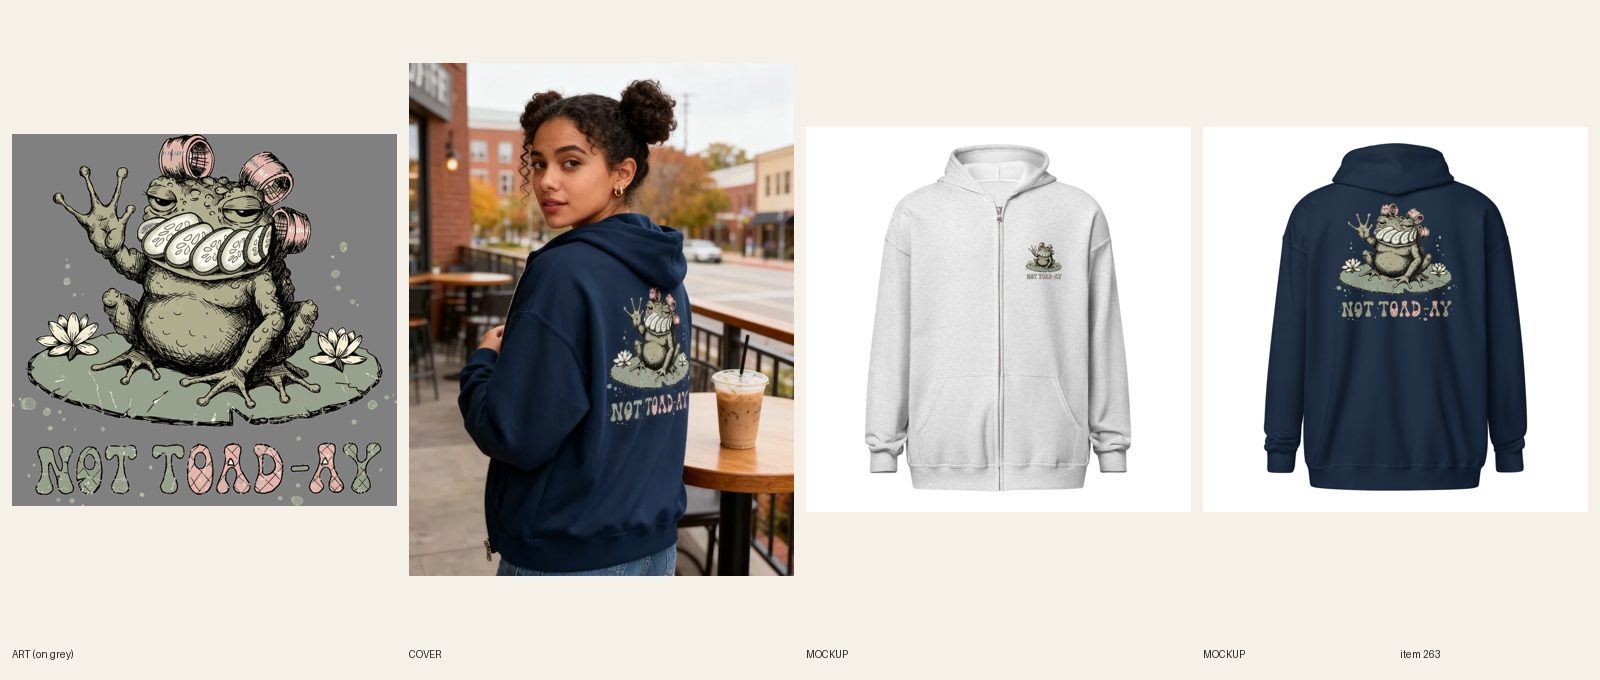
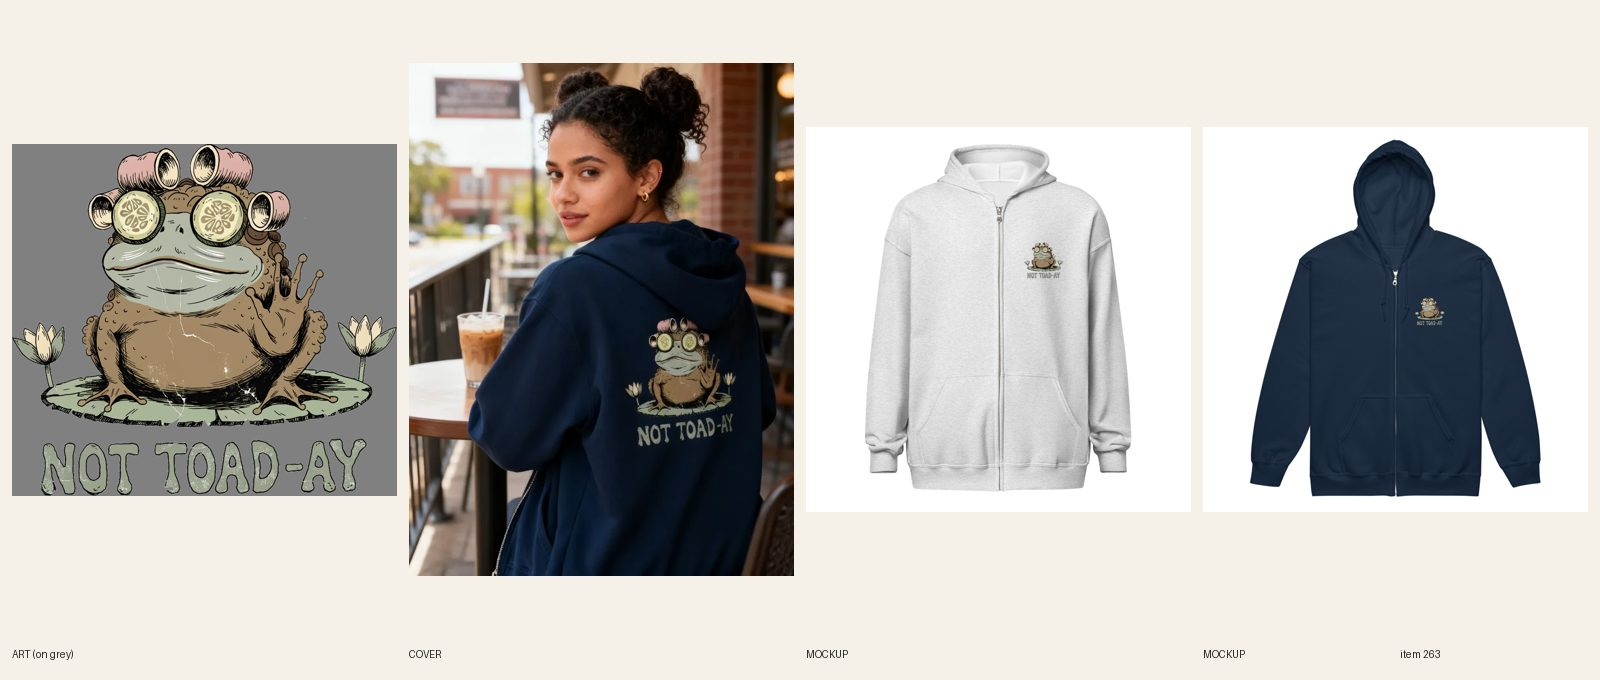
[B] REVIEW #263 redo (spa-toad art with cucumber on the eyes, new cover); registry fixes
Claude-Session: https://claude.ai/code/session_018WH58ghRq1FWGpkcJVrUBA

diff --git a/docs/model-registry.md b/docs/model-registry.md
@@ -311,7 +311,7 @@ Rows 11–43 were re-pointed on 2026-10-08 when the briefs were rewritten from d
 | 424 | South Asian woman in her mid 20s, long wavy dark hair in a side part, nose stud | RESERVED — #248 Snow Problem crewneck cover |
 | 437 | Ethiopian-American man in his late 20s, close-cropped hair, thin mustache, wiry boxer's build | USED 2026-10-16 — #261 Conflict Resolution oversized sweatshirt cover (redo: hand-lettered art, new cover try 1, image 2 of 3) |
 | 438 | Guatemalan-American woman in her late 20s, wavy dark hair in a loose half-up twist, gold-rimmed glasses | USED 2026-10-16 — #262 Plot Twist oversized sweatshirt cover (try 1, image 2 of 3) |
-| 439 | Cuban-American woman in her early 20s, dark curly hair in two puff buns, tiny gold huggie earrings | USED 2026-10-16 — #263 Not Toad-ay zip hoodie cover (try 1, image 2 of 3; back view) |
+| 439 | Cuban-American woman in her early 20s, dark curly hair in two puff buns, tiny gold huggie earrings | USED 2026-10-17 — #263 Not Toad-ay zip hoodie cover (redo: new art, try 1, image 3 of 3; back view) |
 | 440 | Chinese-American woman in her mid 20s, chin-length bob dyed lavender, silver hoops | USED 2026-10-16 — #264 Hot Mess Express zip hoodie cover (try 2, image 2 of 3: try 1 had the hood hidden and the print cut by the turn) |
 | 441 | Colombian-American woman in her mid 30s, long dark hair in a low twisted bun, silver ear cuffs | USED 2026-10-16 — #265 On My Own Time snail hoodie cover (try 1, image 1 of 3; cuff word shows small) |
 | 442 | Czech-American man in his early 40s, curly light-brown hair, full brown beard with a grey patch at the chin | USED 2026-10-16 — #266 Eau de Campfire embroidered hoodie cover (try 1, image 2 of 3; lettering slightly soft) |
@@ -352,5 +352,5 @@ Rows 11–43 were re-pointed on 2026-10-08 when the briefs were rewritten from d
 | 464 | Texan white woman in her late 20s, long honey-blonde waves, freckles, light tan | RESERVED — #283 Deck the Stalls tee cover |
 | 465 | Mexican-American woman in her early 40s, long dark hair in a thick side braid, small silver earrings | RESERVED — #284 Deck the Stalls crewneck cover |
 | 466 | Swedish-American woman in her early 30s, platinum-blonde low bun, no makeup, angular face | USED 2026-10-16 — try 2 (try 1 spelled it moral on the chest), image 3 of 3; stitch lettering slightly soft |
-| 467 | Indian-American woman in her mid 20s, short black bob with blunt bangs, nose ring | USED 2026-10-16 — try 1, image 1 of 3; stitch lettering slightly soft |
-| 468 | Ghanaian-American man in his mid 20s, shaved head, clean-shaven, very muscular build | USED 2026-10-16 — try 2 (try 1 showed short sleeves), image 2 of 3 |
+| 467 | Indian-American woman in her mid 20s, short black bob with blunt bangs, nose ring | USED 2026-10-17 — #286 Purrsonal Space embroidered hoodie cover (try 1, image 1 of 3; stitch lettering slightly soft |
+| 468 | Ghanaian-American man in his mid 20s, shaved head, clean-shaven, very muscular build | USED 2026-10-17 — #287 Sore Since 1987 oversized hoodie cover (try 2 (try 1 showed short sleeves), image 2 of 3 |

diff --git a/docs/pipeline/263-frog-zip-hoodie-not-toad-ay.md b/docs/pipeline/263-frog-zip-hoodie-not-toad-ay.md
@@ -1,4 +1,4 @@
-status: REDO
+status: REVIEW
 lane: B
 type: new
 id: 263
@@ -29,3 +29,4 @@ handle: womens-frog-not-toad-ay-zip-hoodie
 - 2026-10-17 00:15 UTC director: REDO.
   1. R5.3.4: the cucumber slices sit across the toad's mouth like a row of teeth or a mouth guard; nobody reads 'face mask' in 2 seconds. Regenerate (try 2 of 2, R5.4): cucumber slices over the eyes, green clay mask on the face, curlers kept, one hand up.
   2. Keep the hand-lettered NOT TOAD-AY (it passes) and the back + small left-chest placement; new art means a new cover (R6.7 print fidelity: the cover must show the exact print); generate it from the new Navy back mockup.
+- 2026-10-17 03:20 UTC [B]: REDO fix (round 1, try 2 of 2, R5.4): new Recraft v4 art with a smooth green clay mask over the face, one cucumber slice over each closed eye, curlers and the raised hand kept, hand-lettered NOT TOAD-AY (spelling checked), print-prep 3600 x 3295, knock-white (the mask highlights open on Navy as soft mouth lines, accepted), Printful file 1087924484 on the same back + small left-chest placement as before (pf-zip.py), resynced 14/14, mockups replaced in place (Ash front, Navy front, Navy back), copy updated (clay mask, cucumber eye slices; SEO description rewritten), cover regenerated from the new Navy back mockup (registry #439, redo try 1, image 3 of 3, hood visible, print and caption read). Sheet docs/review/263.jpg. Set REVIEW.
